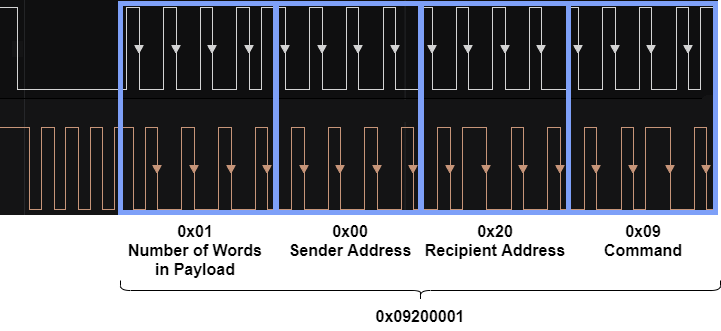
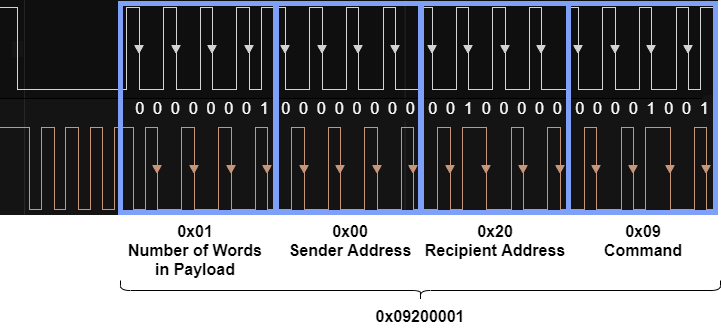
Updated documentation again

Changed region(s): [[0.1831, 0.3021, 1.0, 0.3625]]

diff --git a/DreamcastNode.hpp b/DreamcastNode.hpp
@@ -9,7 +9,7 @@ class DreamcastNode
     public:
         struct ControllerCondition
         {
-            // Yes, I know I'm using a union in a non-recommended way
+            // Yes, I know I'm using a union in a way that isn't officially supported
             union
             {
                 uint32_t words[2];
@@ -22,10 +22,10 @@ class DreamcastNode
 
                     uint8_t r; // 255: fully pressed
 
-                    unsigned none2:1;
+                    unsigned none1:1;
                     unsigned y:1;
                     unsigned x:1;
-                    unsigned none1:5;
+                    unsigned none2:5;
 
                     unsigned none3:1;
                     unsigned b:1;

diff --git a/README.md b/README.md
@@ -15,6 +15,8 @@ Luckily, the RP2040 comes with 2 PIO blocks each with 4 separate state machines.
 
 # Maple Bus Implementation
 
+**Disclaimer:** I'm still working through this interface, so information here is not guaranteed to be 100% accurate.
+
 Maple Bus is the name of the bus used for the controller interface on the Dreamcast.
 
 ## Hardware Overview
@@ -25,9 +27,11 @@ A Maple Bus consists of 2 signal/clock lines that are labeled SDCKA and SDCKB. H
   <img src="images/Maple_Bus_Electronics_Block_Diagram.png?raw=true" alt="Maple Bus Electronics Block Diagram"/>
 </p>
 
+- Both lines on the Bus are pulled HIGH through weak pullup resistors
 - Only one connected component on the bus may communicate at a time
 - During communication, a device should not drive both lines HIGH for very long to prevent a downstream device from thinking the bus is free
 - Before a component starts communicating, it must verify the bus is neutral for a sufficient amount of time
+- A peripheral device will only communicate 1 packet of data in response to a request from the host
 
 <p align="center">
   <img src="images/Maple_Bus_Hardware_Communication.png?raw=true" alt="Maple Bus Hardware Communication"/>
@@ -110,12 +114,55 @@ Each word is 32 bits in length, transmitted in little-endian order. The most sig
 
 ### Frame Word
 
-The following is an example of a frame word.
+The following is how a frame word is broken down into its 4 parts.
+
+| Byte 0 (LSB) | Byte 1 | Byte 2 | Byte 3 (MSB) |
+| :---: | :---: | :---: | :---: |
+| Number of Words<br>in Payload | Sender<br>Address | Recipient<br>Address | Command |
+
+example:
 
 <p align="center">
   <img src="images/Frame_Word.png?raw=true" alt="Frame Word"/>
 </p>
 
+#### Addressing
+
+The following addresses are used for all components on the bus.
+
+| Host | Main Peripheral | Sub-Peripheral 1 | Sub-Peripheral 2 | Sub-Peripheral 3 | Sub-Peripheral 4 | Sub-Peripheral 5 |
+| :---: | :---: | :---: | :---: | :---: | :---: | :---: |
+| 0x00 | 0x20* | 0x01 | 0x02 | 0x04 | 0x08 | 0x10 |
+
+*When the main peripheral sets its sender address, it also sets the bits corresponding to which sub-peripherals are attached. For example, if sub-peripherals 1 and 2 are attached, the main peripheral's sender address will be 0x23. This informs the host what else is attached.
+
+#### Commands
+
+| Command Value | Description |
+| :---: | :---: |
+| 0x01* | Device Info Request |
+| 0x02 | Extended Device Info Request |
+| 0x03 | Reset |
+| 0x04 | Shutdown |
+| 0x05 | Device Info |
+| 0x06 | Extended Device Info |
+| 0x07 | Acknowledge |
+| 0x08 | Data Transfer |
+| 0x09 | Get Condition |
+| 0x0A | Get Memory Information |
+| 0x0B | Block Read |
+| 0x0C | Block Write |
+| 0x0E | Set Condition |
+| 0xFB | File Error |
+| 0xFC | Request Resend |
+| 0xFD | Unknown Command |
+| 0xFE | Function Code Not Supported |
+| 0xFF | None |
+
+*Most peripheral devices won't respond to any other command until device info is requested for the device.
+
+**TODO:** Add more info here
+
 ### CRC
 
-CRC byte transmits last, just before the end sequence is transmitted. It is the value after taking 0 and applying XOR to each other byte in the packet.
+CRC byte transmits last, just before the end sequence is transmitted. It is the value after starting with 0 and applying XOR to each other byte in the packet.
